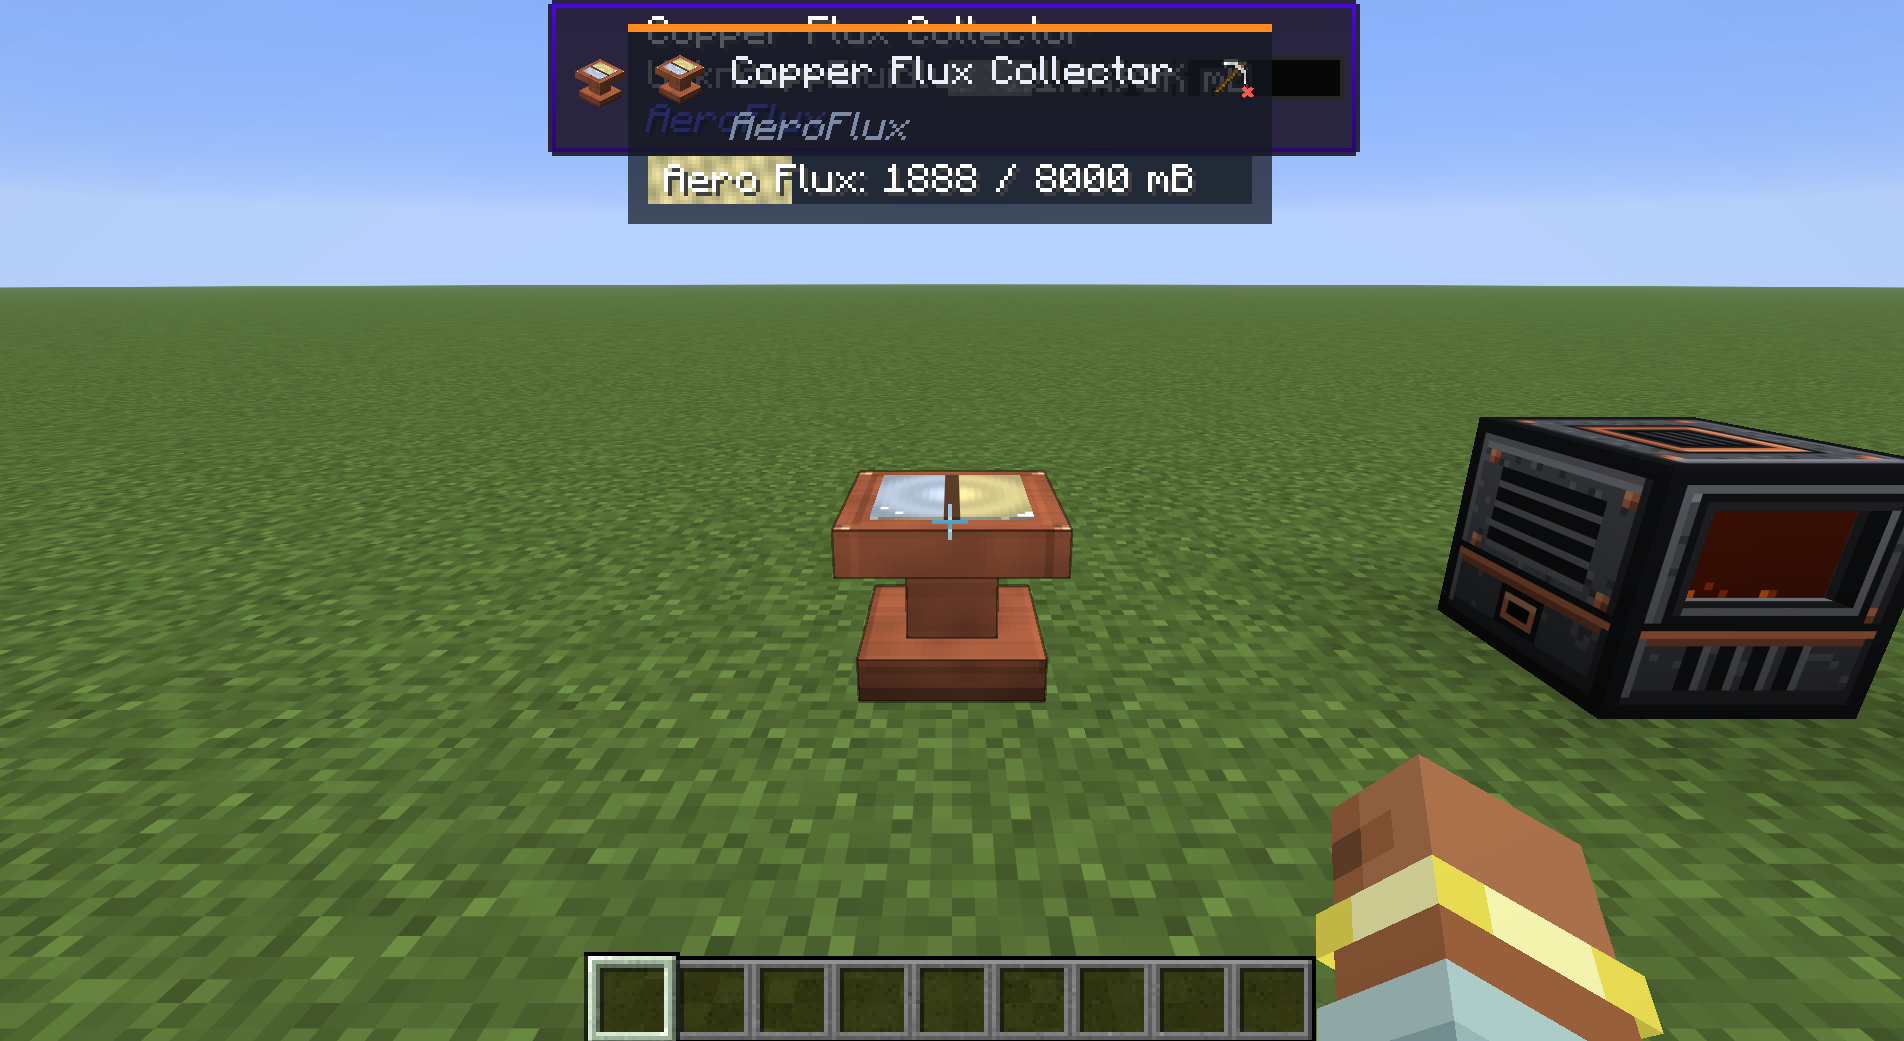
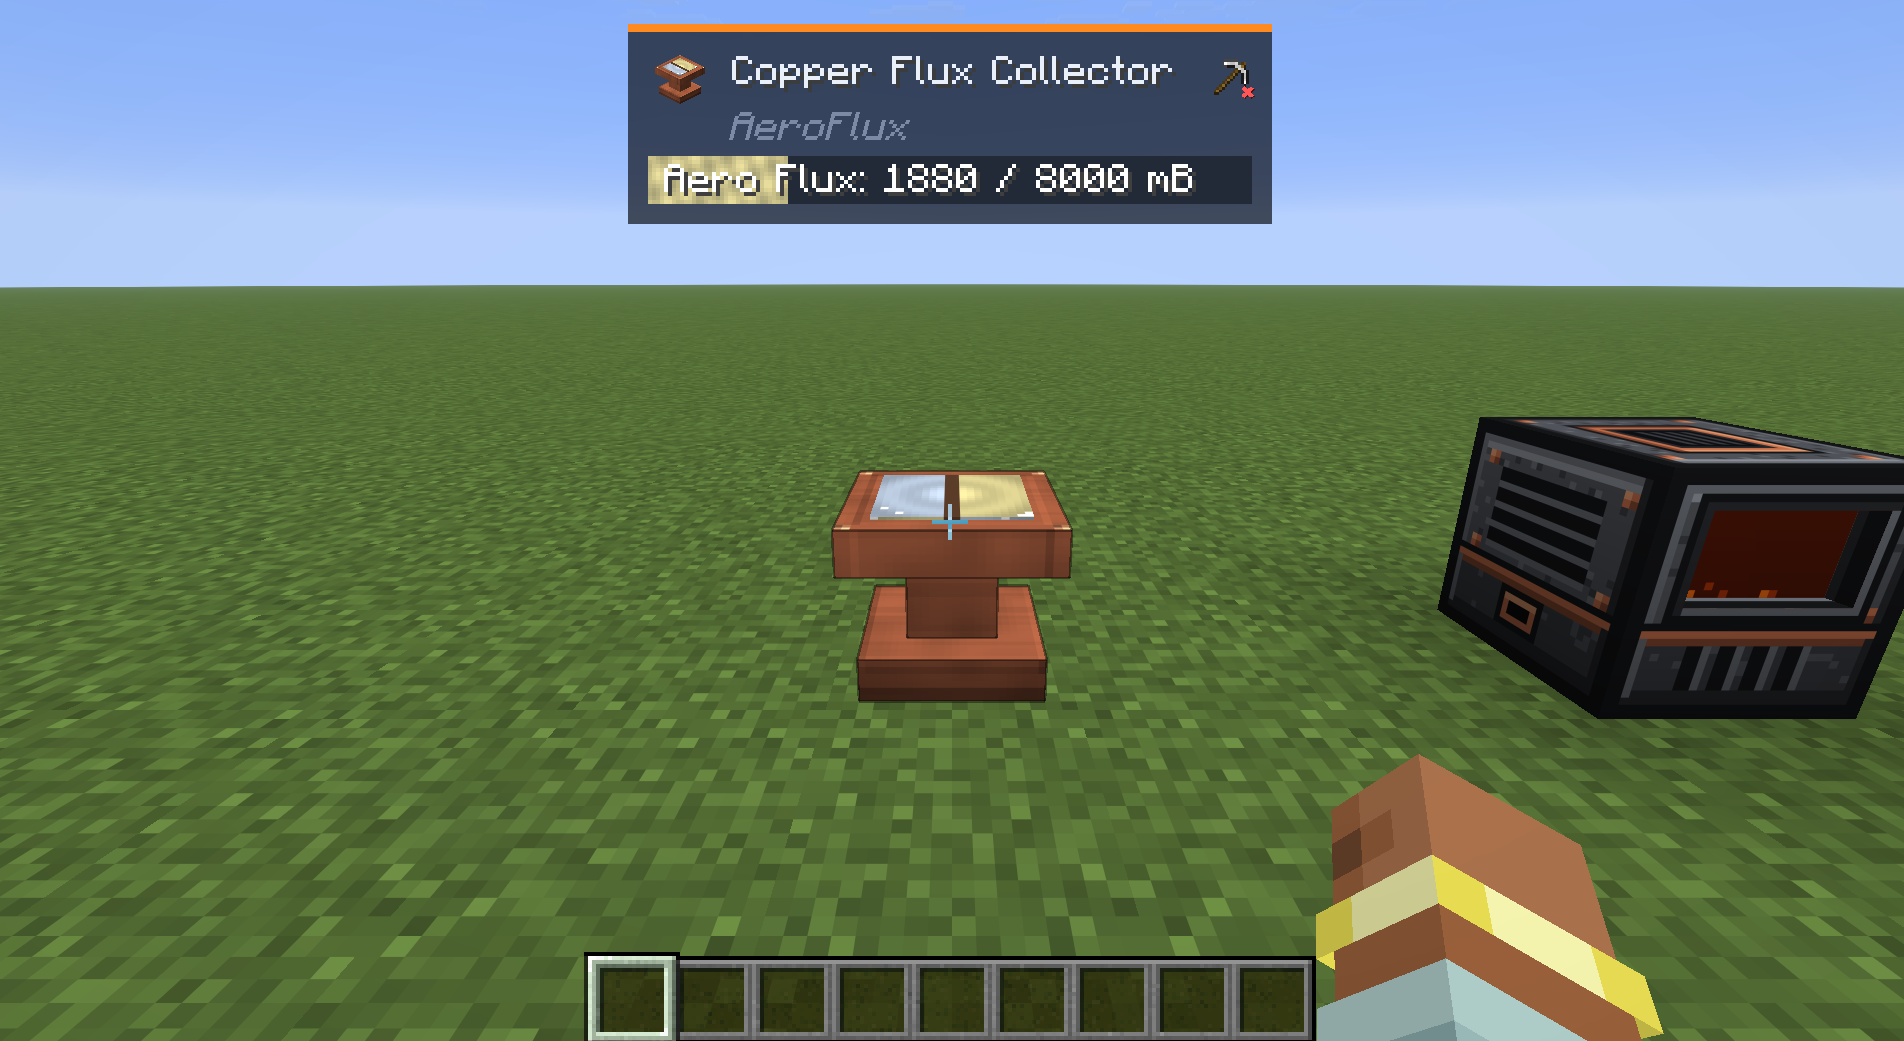
26.1.2 Forge: WTHIT is opt-in in the dev client; SMWTI frames retaken alone
The double SMWTI panel in the first 26.1.2 Forge frames was WTHIT loaded beside it in the dev run,
not SMWTI. build.gradle now leaves WTHIT and Bad Packets out with -PbeiCheck, as the other builds do.

Changed region(s): [[0.2789, 0.0, 0.7127, 0.1537]]

diff --git a/docs/COMPATIBILITY.md b/docs/COMPATIBILITY.md
@@ -46,7 +46,7 @@ Client checks use the dev-only tours (`AEROFLUX_SHOTS=bei` and `AEROFLUX_SHOTS=s
 |---|---|
 | All six builds compile and package | yes, 2026-11-05 (`gradlew build -x test`) |
 | BEI in a real client: browser lists AeroFlux items, recipe popup opens, Infuser card and two Alloy Smelter cards drawn | yes on all six builds. Frames: `docs/frames/bei-<version>-<loader>-browser.png`, `-popup_dust.png`, `-popup_fluxsteel.png` |
-| SMWTI in a real client: look at a Copper Furnace and a Copper Flux Collector, read the panel | yes on all six builds (furnace: Empty 0 / 1000 mB, Idle; collector: Aero Flux about 1900 / 8000 mB). Frames: `docs/frames/smwti-<version>-<loader>-furnace.png` and `-collector.png`. **26.1.2 Forge:** the lines are right, but the panel is drawn twice, a second faint copy with a purple vanilla-style border on top. The same SMWTI draws one panel on 26.1.2 NeoForge, so this is SMWTI's, not AeroFlux's |
+| SMWTI in a real client: look at a Copper Furnace and a Copper Flux Collector, read the panel | yes on all six builds (furnace: Empty 0 / 1000 mB, Idle; collector: Aero Flux about 1900 / 8000 mB). Frames: `docs/frames/smwti-<version>-<loader>-furnace.png` and `-collector.png`. Retaken on 26.1.2 Forge with SMWTI alone: one panel, correct lines. The first 26.1.2 Forge frames showed a second faint panel because WTHIT was also loaded in the dev run; WTHIT is now opt-in there (`-PbeiCheck`), as on the other builds. The BEI frames on 26.1.2 Forge were taken with WTHIT loaded too, which does not affect BEI's browser or popups |
 | In-game server self-test after these changes | not run locally; the Build workflow runs it on push |
 | REI, JEI, EMI, Jade, The One Probe, WTHIT in a real client | not tested on any build in this pass |
 | Jade on 1.21.1 Forge | no usable build: Jade has none for Forge 1.21.1 |

diff --git a/PROJECT_STATUS.md b/PROJECT_STATUS.md
@@ -63,7 +63,7 @@ Spend: none
 - [~] ME and Dense ME pipes (Applied Energistics 2 soft dependency; grid nodes on NeoForge 26.1/1.21.1 and both 1.20.1 builds, self-tested on 1.20.1) (w:3)
 - [~] Jade, The One Probe, WTHIT and SMWTI plugins (SMWTI on 26.1 Forge only, through its API jar; Jade, The One Probe and WTHIT where those mods exist, none seen in a client) (w:3)
 - [x] BEI recipe viewer plugin (cards for every recipe machine and the Sifter on all six builds, seen in a client on all six: browser, Copper Infuser card, Copper Alloy Smelter cards; 26.1.2 Forge got a recipe sync of its own first) (w:3)
-- [~] SMWTI plugin on all six builds (seen in a client on all six: Copper Furnace and Copper Flux Collector panels read correctly; on 26.1.2 Forge SMWTI itself draws the panel twice) (w:2)
+- [x] SMWTI plugin on all six builds (seen in a client on all six: Copper Furnace and Copper Flux Collector panels read correctly) (w:2)
 - [~] Client check of every viewer and overlay integration (BEI and SMWTI done on all six, frames in docs/frames; REI, JEI, EMI, Jade, The One Probe and WTHIT not checked) (w:3)
 - [x] Compatibility table (docs/COMPATIBILITY.md: which BEI, REI, JEI, EMI, Jade and SMWTI builds exist per version and loader, what AeroFlux has) (w:1)
 
